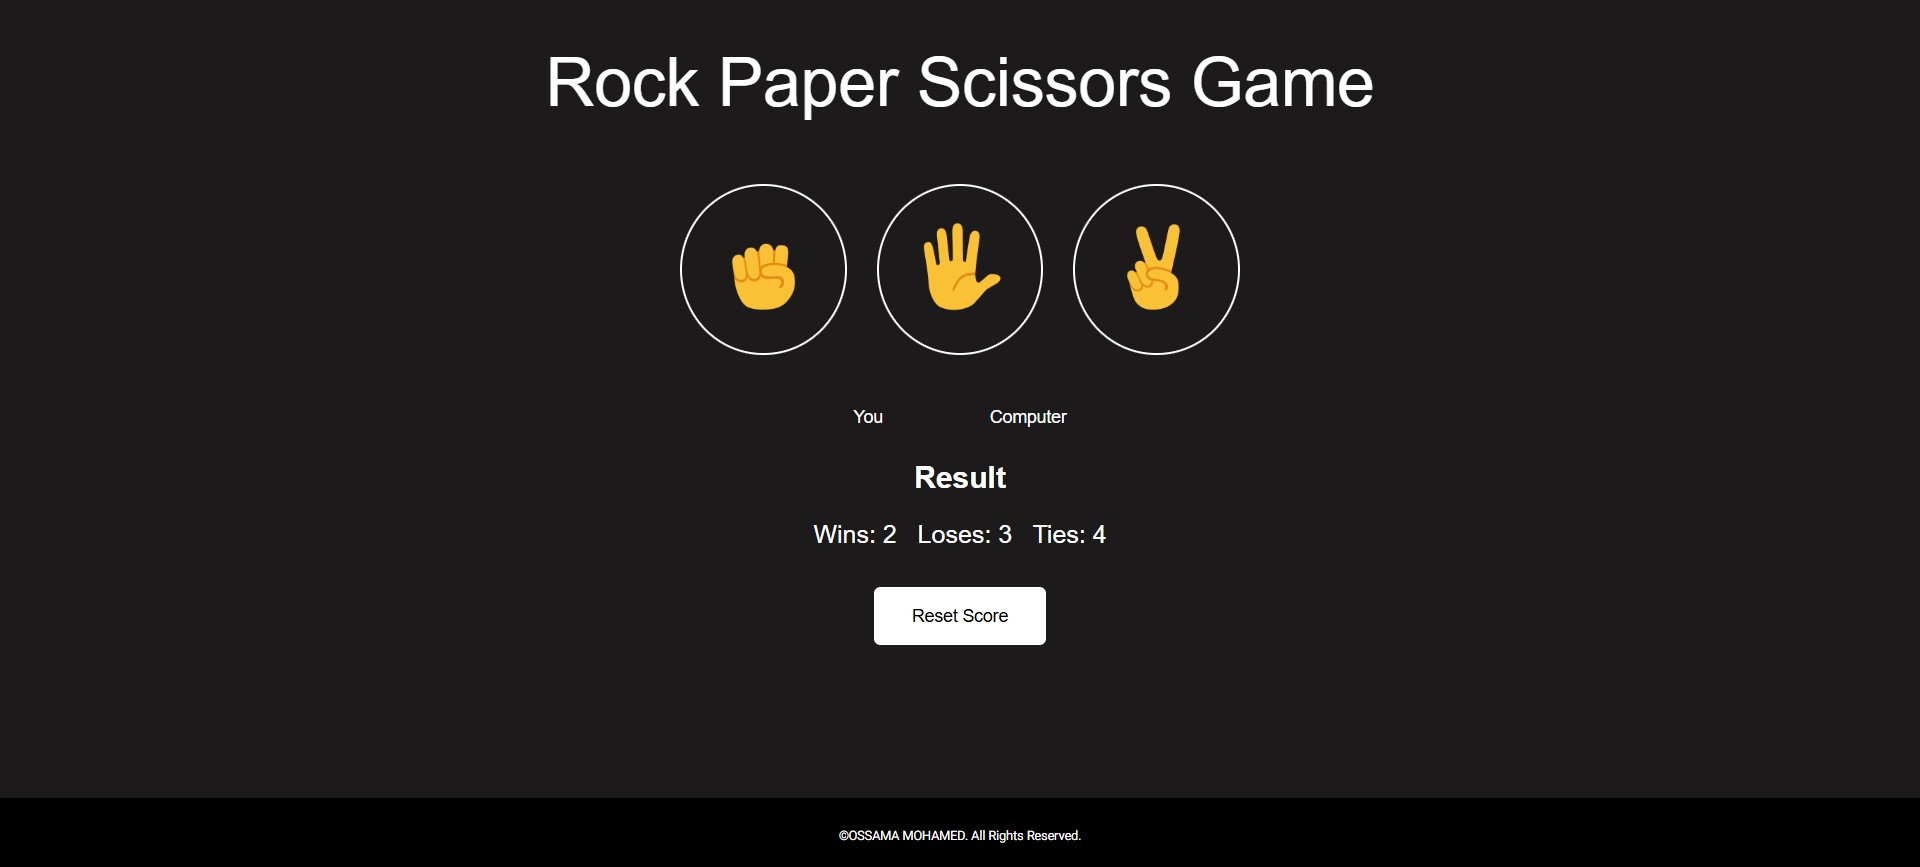
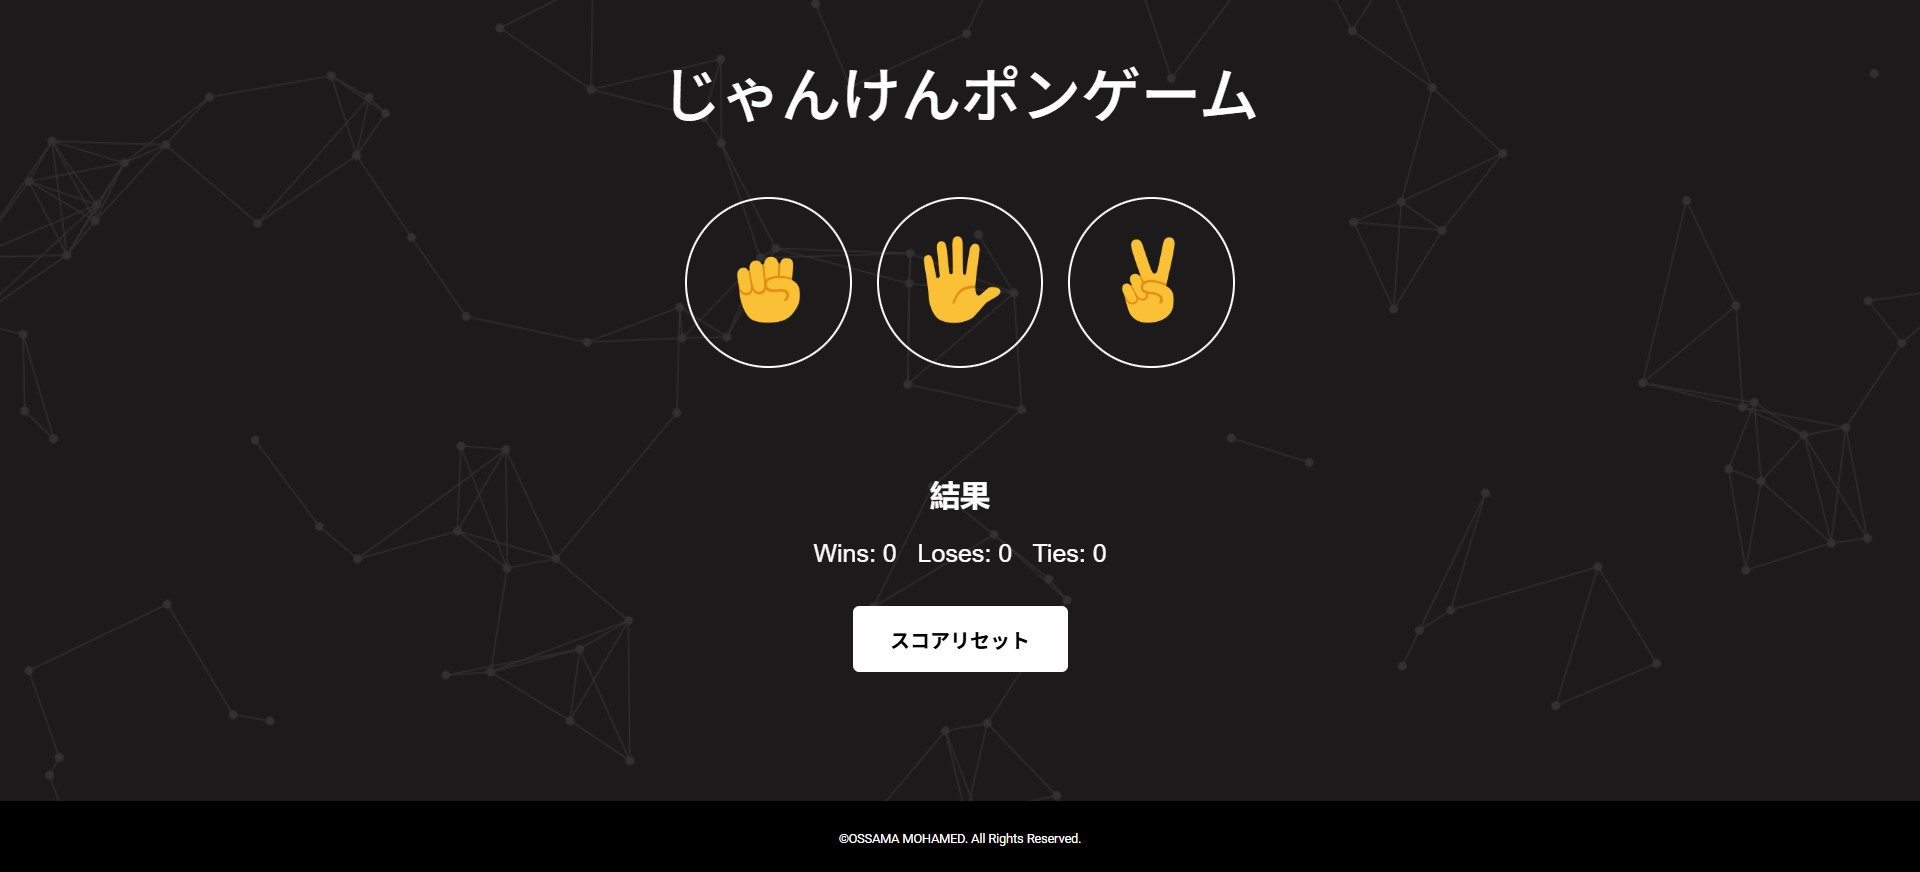
prev

diff --git a/subPG2/sub-styles.css b/subPG2/sub-styles.css
@@ -1,7 +1,7 @@
 html, body{
   font-size: 1.1rem !important;
   font-family: Roboto,arial,sans-serif !important;
-  padding: 6% 5% 3% 5%;
+  padding: 4% 5% 3% 5%;
   text-align: center;
 }
 header{
@@ -38,13 +38,29 @@ section h1{
     word-spacing: 0.2rem;
     white-space: wrap;
   }
+
+  #pg{
+    width: 200px !important;
+    height: 50px !important;
+  }
 }
 
 #pg{
-  margin: 100px auto 0px 40%;
-  width: 200px;
-  height: 40px;
-  background-color: black;
-  color: #f5deb3;
+  width: 300px;
+  height: 60px;
+  background-color: rgb(45, 45, 45);
+  color: white;
   cursor: pointer;
+  font-size: 1rem;
+  transition: 0.2s ease;
+  -webkit-transition: 0.2s ease;
+  -moz-transition: 0.2s ease;
+  -ms-transition: 0.2s ease;
+  -o-transition: 0.2s ease;
+}
+
+#pg:hover{
+  background-color: transparent;
+  color: black;
+  border: 2px solid black;
 }

diff --git a/subPG2/index.html b/subPG2/index.html
@@ -13,7 +13,7 @@
   <link rel="stylesheet" href="../css/media-queries.css">
   <link rel="stylesheet" href="sub-styles.css">
   
-  <title>sub page</title>
+  <title>ゲームプロジェクト</title>
 </head>
 
 <!-- back ground -->
@@ -68,9 +68,10 @@
     <br>
     <img src="../media/rps site ss.jpg" alt="project img" id="subpg-img">
     <p>Lorem ipsum dolor sit amet consectetur adipisicing elit. Dolorem, consequuntur laudantium! Debitis praesentium accusantium, provident ducimus eligendi inventore, est culpa voluptas dolorem, quibusdam laudantium id minima animi beatae in ea!</p>
+    <button id="pg" onclick="window.open('rpsGame/index.html')">ゲームプレイ</button>
+  
   </section>
 
-  <button id="pg" onclick="window.open('rpsGame/index.html')">play game</button>
 
 </body>
 
